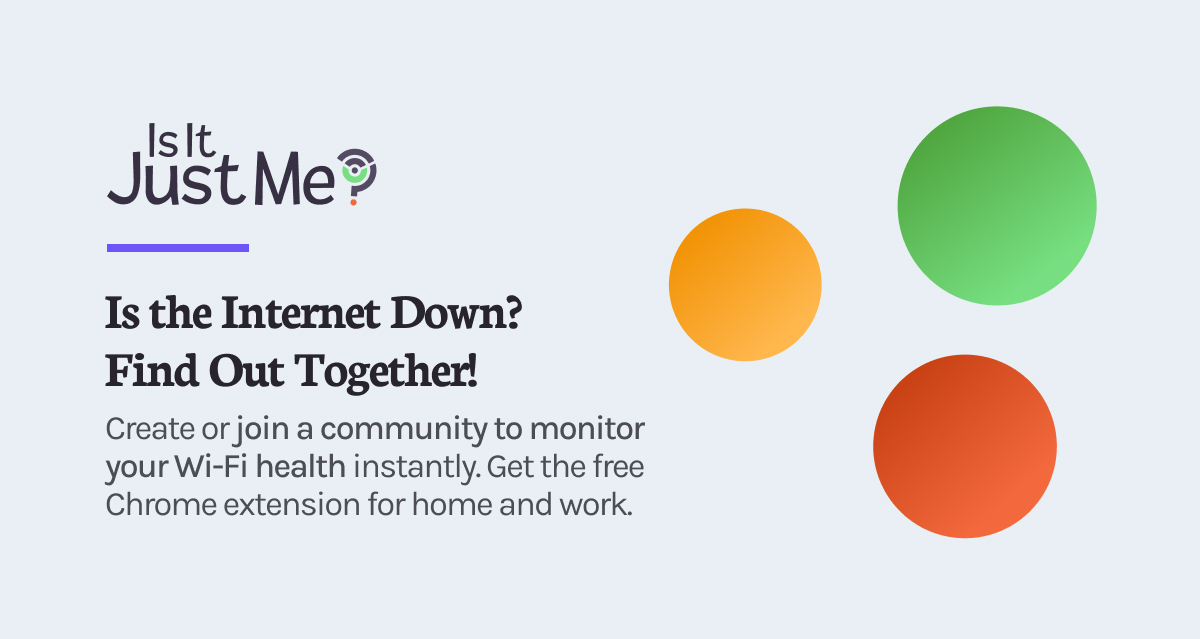
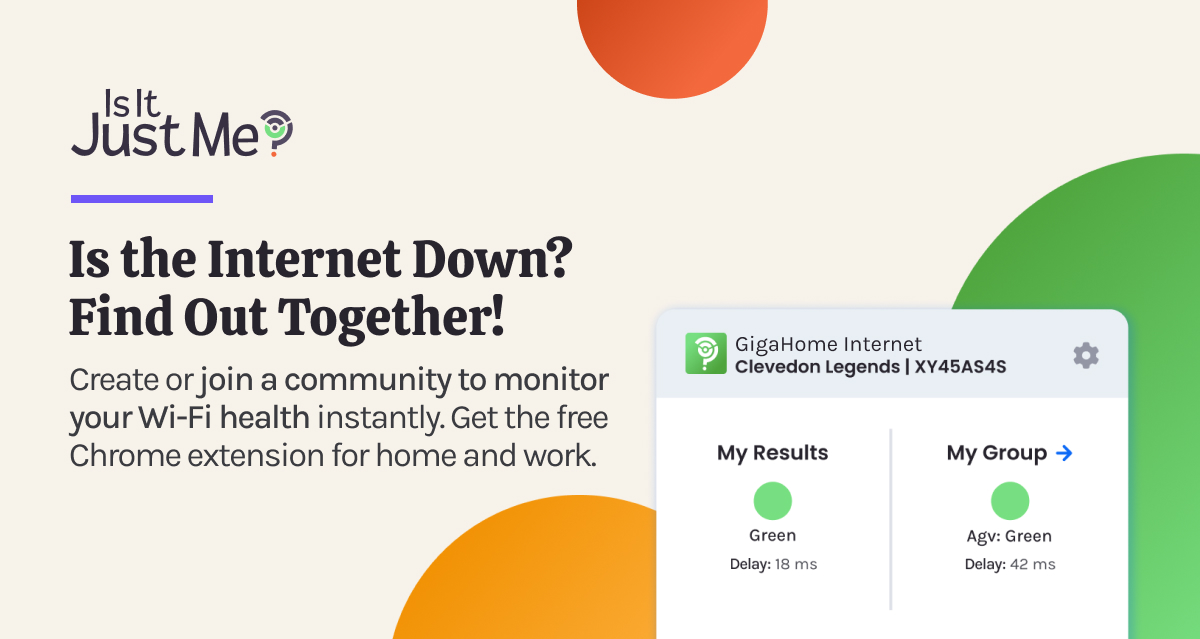
Added hero image, updated open graph image and finished tidying up responsive design.

diff --git a/src/pages/index.js b/src/pages/index.js
@@ -54,11 +54,12 @@ const IndexPage = () => {
                     <div className="container">
                         <div className="row">
                             <div className="col-lg-4">
+                                <StaticImage className="about-image-small" src="../images/IsItJustMeExtension.png" alt="Is It Just Me? Extension" />
                                 <h2 className="highlight-heading">Why You'll Love It</h2>
                                 <p><span className="text-accent">Real-Time Wi-Fi Status at a Glance:</span> Your Chrome browser icon changes color from Green (Everything's great), to Amber (Issues detected), to Red (Major outage). No more guessing if it's your Wi-Fi or the Internet.</p>
                             </div>
                             <div className="col-lg-4">
-
+                                <StaticImage className="about-image" src="../images/IsItJustMeExtension.png" alt="Is It Just Me? Extension" />
                             </div>
                             <div className="col-lg-4">
                                 <p><span className="text-accent">Visibility of Others' Status:</span> If you're online, you will be able to see if others in your group go offline. If you are offline, however, you won’t be able to tell the status of others. When delays occur, they'll be clearly visible if you're online.</p>
@@ -83,7 +84,7 @@ const IndexPage = () => {
                                 </div>
                             </div>
                             <div className="col-md-8 profile-text">
-                                <div className="profile-text-container ms-5">
+                                <div className="profile-text-container ms-lg-5">
                                     <h5>Instant Alerts</h5>
                                     <p>Get visual feedback when your Wi-Fi or Internet connection drops or weakens.</p>
                                 </div>
@@ -98,7 +99,7 @@ const IndexPage = () => {
                                 </div>
                             </div>
                             <div className="col-md-8 order-md-1 profile-text">
-                                <div className="profile-text-container ms-5 me-5">
+                                <div className="profile-text-container ms-lg-5 me-lg-5">
                                     <h5>Community Sharing</h5>
                                     <p>Easily connect with others in your group to check if they're facing the same connectivity issues. While online, you'll be able to see if others in your group go offline (if you're offline, you can't see their status).</p>
                                 </div>
@@ -113,7 +114,7 @@ const IndexPage = () => {
                                 </div>
                             </div>
                             <div className="col-md-8 profile-text">
-                                <div className="profile-text-container ms-5">
+                                <div className="profile-text-container ms-lg-5">
                                     <h5>Privacy First</h5>
                                     <p>We don’t store any of your personal data beyond your public IP address. We don’t store any other personal information. Your group is anonymous subject to your choice of group name, and your connection is secure.</p>
                                 </div>

diff --git a/src/styles/global.css b/src/styles/global.css
@@ -293,6 +293,7 @@ nav {
     height: 100%;
     display: flex;
     justify-content: center;
+    border-radius: 15px;
   }
   
   .hero-content {
@@ -380,6 +381,14 @@ nav {
         padding-right: 30px;
     }
   }
+
+  @media screen and (max-width: 991px) {
+    .hero-container h3 {
+      padding-left: 10px;
+      padding-right: 10px;
+      width: 100%;
+    }
+  }
   
   @media screen and (max-width: 350px) {
     .hero-container h1 {
@@ -465,6 +474,29 @@ nav {
     }
   }
 
+  .about-image-small {
+    margin-top: -120%;
+    margin-bottom: 40px;
+  }
+
+  @media screen and (min-width: 500px) and (max-width: 767px) {
+    .about-image-small {
+      margin-top: -80%;
+    }
+  }
+
+  @media screen and (min-width: 768px) {
+    .about-image-small {
+      margin-top: -70%;
+    }
+  }
+
+  @media screen and (min-width: 992px) {
+    .about-image-small {
+      display: none;
+    }
+  }
+
   .about-info {
     padding-top: 90px;
     padding-bottom: 80px;
@@ -503,15 +535,61 @@ nav {
     font-weight: 600;
   }
 
+  .about-image {
+    margin-top: -120%;
+    margin-bottom: 20px;
+  }
+
+  @media screen and (min-width: 1200px) {
+    .about-image {
+      margin-top: -100%;
+    }  
+  }
+
+  @media screen and (max-width: 991px) {
+    .about-image {
+      display: none;
+    }
+  }
+
+  @media screen and (max-width: 991px) {
+    .about-profiles {
+      margin: 0 20px;
+    }
+  }
+
   .features-list-container {
     background: #E8DFD2;
     border-radius: 15px;
-    padding: 90px 80px 80px 80px;
+    padding: 45px 20px 40px 20px;
+  }
+
+  @media screen and (min-width: 992px) {
+    .features-list-container {
+      padding: 90px 80px 80px 80px;
+    }
+  }
+
+  @media screen and (max-width: 991px) {
+    .features-list-container .row {
+      margin-bottom: 40px;
+    }
+
+    .features-list-container img {
+      margin-left: 0;
+      margin-right: 25%;
+    }
   }
 
   .profile-first, .profile-middle, .profile-last {
     width: 100%;
     height: 100%;
+  }
+
+  @media screen and (max-width: 991px) {
+    .profile-text-container h5 {
+      margin-top: 20px;
+    }
   }
 
   .profile-text {
@@ -549,6 +627,12 @@ nav {
     margin-bottom: 40px;
     margin-left: auto;
     margin-right: auto;
+  }
+
+  @media screen and (max-width: 991px) {
+    .services-container .highlight-heading {
+      margin-bottom: 0;
+    }
   }
 
   @media screen and (max-width: 452px) {
@@ -723,10 +807,14 @@ nav {
   }
 
   /* Who Is It For */
+  #whoIsThisFor {
+    margin: 0 20px;
+  }
+
   .whofor-container {
     background: #E8DFD2;
+    margin: 0 auto; 
     padding: 90px 20px 80px 20px;
-    margin: 0 auto;
     border-radius: 15px;
   }
 
@@ -742,6 +830,12 @@ nav {
   .whofor-container .col-lg-4 {
     padding-left: 5%;
     padding-right: 5%;
+  }
+
+  @media screen and (max-width: 991px) {
+    .whofor-container .col-lg-4 {
+      margin-bottom: 20px;
+    }
   }
 
   .whofor-container .fa-house-user, .whofor-container .fa-house-laptop, .whofor-container .fa-building {
@@ -766,6 +860,7 @@ nav {
     padding: 90px 40px 80px 40px;
     border-radius: 15px;
     margin: 0 auto 20px auto;
+    width: calc(100% - 40px);
   }
 
   @media screen and (max-width: 600px) {

diff --git a/gatsby-config.js b/gatsby-config.js
@@ -28,8 +28,8 @@ module.exports = {
                 name: `Is It Just Me?`,
                 short_name: `Is It Just Me?`,
                 start_url: `/`,
-                background_color: `#000000`,
-                theme_color: `#000000`,
+                background_color: `#E8DFD2`,
+                theme_color: `#E8DFD2`,
                 lang: `en`,
                 display: `standalone`,
                 icon: `src/images/icon.png`,
